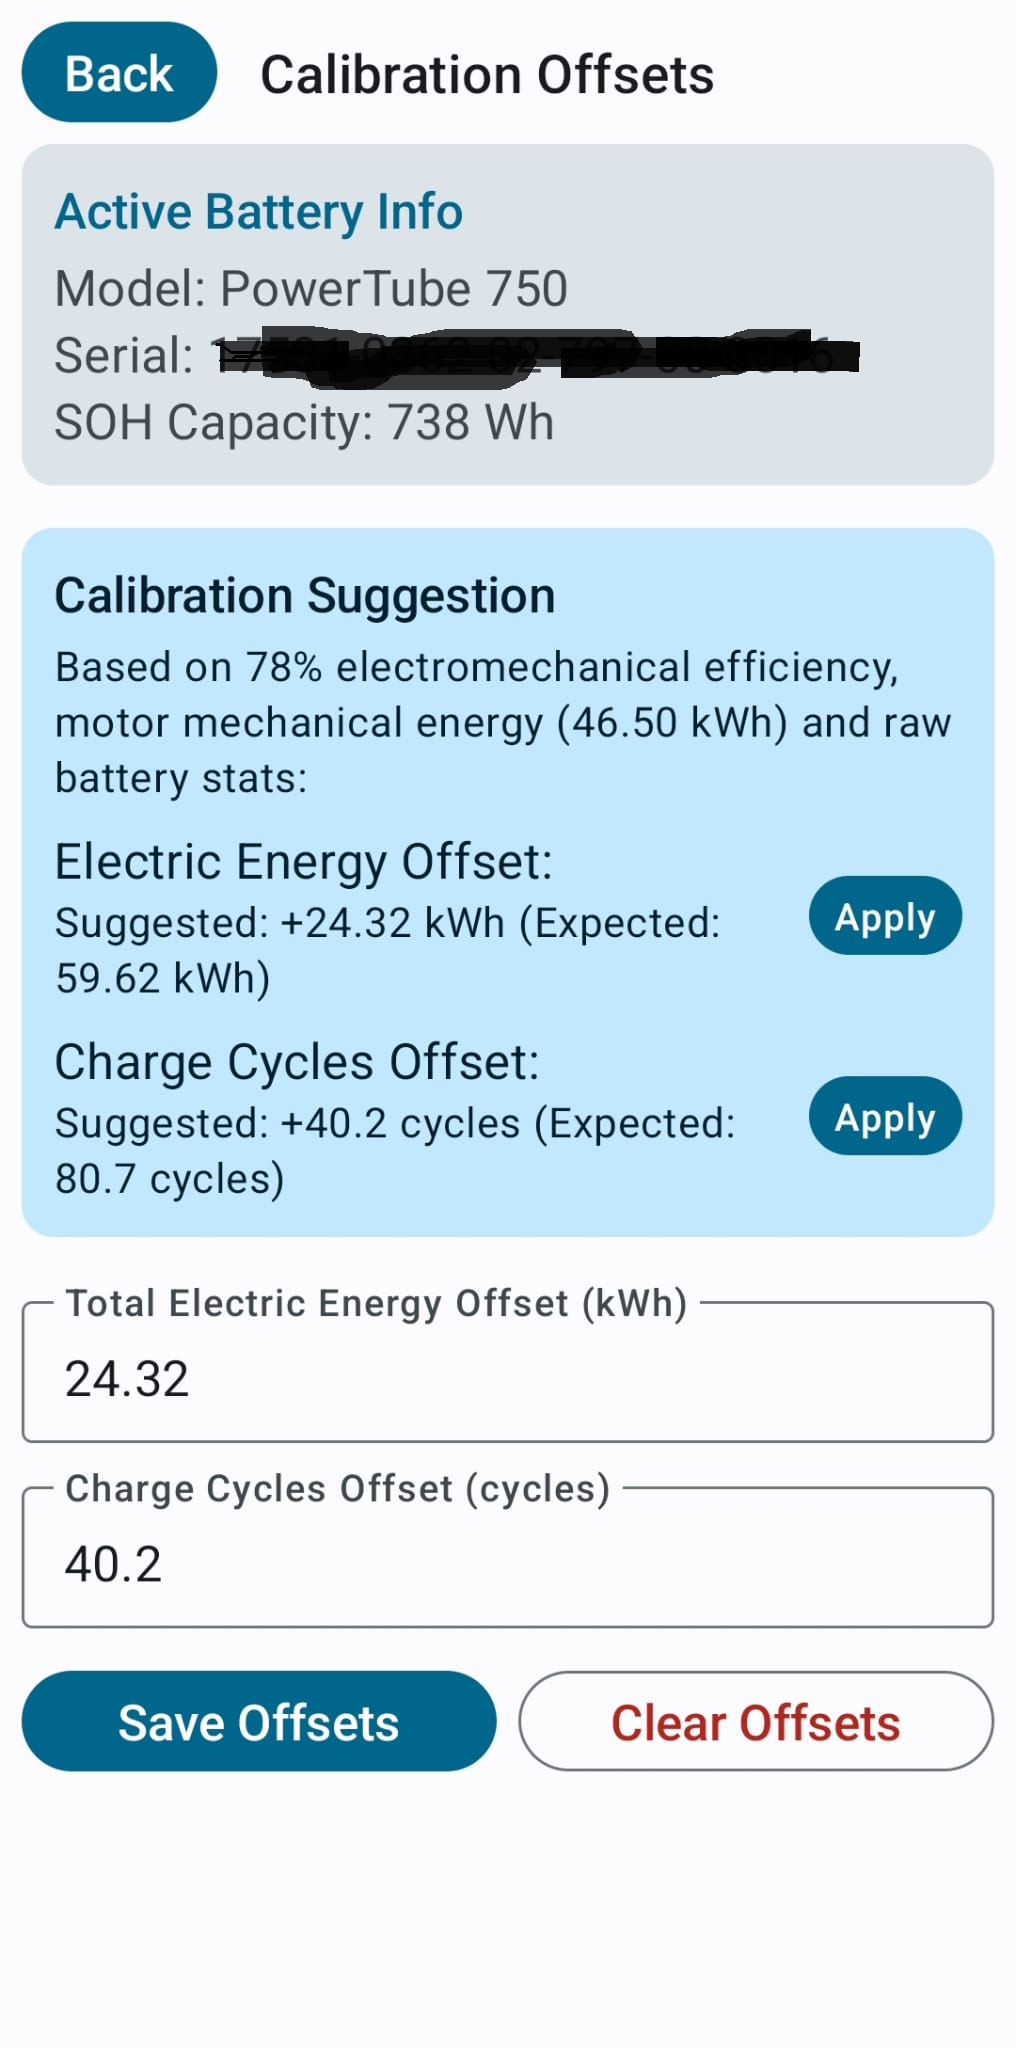
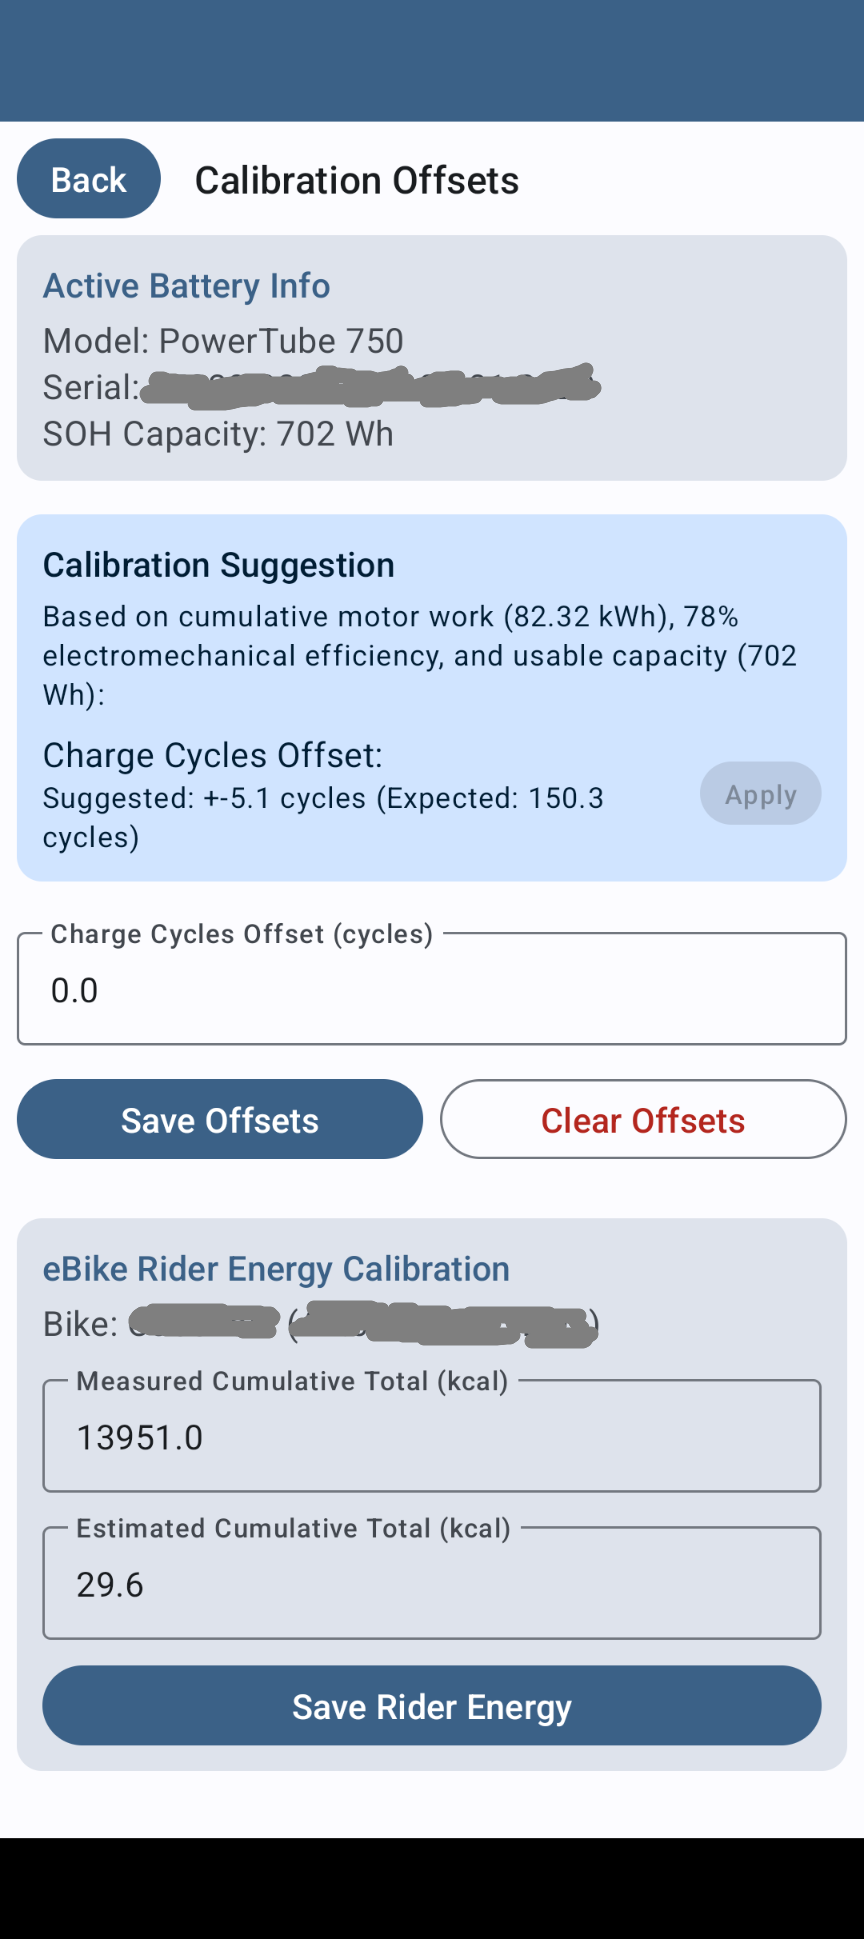
feat(battery): publish on-bike charge cycles (0x80B0) via MQTT and bump battery discovery version
- Add onBikeChargeCycles to BikeStatus and BatteryStateManager
- Implement freshness gating and battery-swap cache invalidation for 0x80B0
- Configure Home Assistant MQTT discovery for sensor.bosch_<model>_on_bike_charge_cycles
- Publish retained onbikechargecycles topic under powertube/<serial>/
- Bump CURRENT_BATTERY_DISCOVERY_VERSION to 6 to prompt re-registration in HA
- Display on-bike charge cycles in Dashboard debug sensors
- Update Calibration.png, README.md, BLE_TOPICS.md, MQTT_TOPICS.md, and unit tests

diff --git a/app/src/test/java/com/example/ebikemonitor/data/ble/BatterySwapTest.kt b/app/src/test/java/com/example/ebikemonitor/data/ble/BatterySwapTest.kt
@@ -25,19 +25,25 @@ class BatterySwapTest {
         // 1. Connect Battery A and receive serial + telemetry
         val (status1, _) = batteryStateManager.onBatterySerialDecoded("BAT_A", initialStatus, profiles)
         val status2 = batteryStateManager.onChargeCyclesReceived(155.0, status1, profiles)
+        val status3 = batteryStateManager.onOnBikeChargeCyclesReceived(120.0, status2)
 
-        assertEquals("BAT_A", status2.batterySerialNumber)
-        assertEquals(155.0, status2.chargeCycles ?: 0.0, 0.001)
+        assertEquals("BAT_A", status3.batterySerialNumber)
+        assertEquals(155.0, status3.chargeCycles ?: 0.0, 0.001)
+        assertEquals(120.0, status3.onBikeChargeCycles ?: 0.0, 0.001)
         assertTrue(batteryStateManager.hasReceivedRealChargeCycles)
+        assertTrue(batteryStateManager.hasReceivedRealOnBikeChargeCycles)
 
         // 2. Disconnect BLE
-        val disconnectedStatus = batteryStateManager.resetOnDisconnect(status2)
+        val disconnectedStatus = batteryStateManager.resetOnDisconnect(status3)
 
         // 3. Verify telemetry is cleared and flags are reset
         assertNull(disconnectedStatus.rawChargeCycles)
         assertNull(disconnectedStatus.chargeCycles)
+        assertNull(disconnectedStatus.onBikeChargeCycles)
         assertNull(batteryStateManager.rawChargeCycles)
+        assertNull(batteryStateManager.rawOnBikeChargeCycles)
         assertFalse(batteryStateManager.hasReceivedRealChargeCycles)
+        assertFalse(batteryStateManager.hasReceivedRealOnBikeChargeCycles)
     }
 
     @Test
@@ -50,26 +56,33 @@ class BatterySwapTest {
         // 1. Ride with Battery Grey
         val (s1, _) = batteryStateManager.onBatterySerialDecoded("BAT_GREY", initialStatus, profiles)
         val s2 = batteryStateManager.onChargeCyclesReceived(155.0, s1, profiles)
-        assertEquals(155.0, s2.chargeCycles ?: 0.0, 0.001)
+        val s3 = batteryStateManager.onOnBikeChargeCyclesReceived(120.0, s2)
+        assertEquals(155.0, s3.chargeCycles ?: 0.0, 0.001)
+        assertEquals(120.0, s3.onBikeChargeCycles ?: 0.0, 0.001)
 
         // 2. Bike powers off
-        val disconnectedStatus = batteryStateManager.resetOnDisconnect(s2)
+        val disconnectedStatus = batteryStateManager.resetOnDisconnect(s3)
 
         // 3. Swap in Battery Red (not in profiles list)
         val (sRedInit, serialChanged) = batteryStateManager.onBatterySerialDecoded("BAT_RED", disconnectedStatus, profiles)
         assertTrue(serialChanged)
         assertEquals("BAT_RED", sRedInit.batterySerialNumber)
 
-        // Critical: Before new BMS packets arrive, cycles must be null (no leakage of 155.0!)
+        // Critical: Before new BMS packets arrive, cycles must be null (no leakage of 155.0 or 120.0!)
         assertNull("Stale charge cycles leaked to new battery!", sRedInit.chargeCycles)
+        assertNull("Stale on-bike charge cycles leaked to new battery!", sRedInit.onBikeChargeCycles)
         assertFalse(batteryStateManager.hasReceivedRealChargeCycles)
+        assertFalse(batteryStateManager.hasReceivedRealOnBikeChargeCycles)
 
         // 4. Low-frequency BMS packets for Red finally arrive
         val sRedComplete = batteryStateManager.onChargeCyclesReceived(40.9, sRedInit, profiles)
+        val sRedOnBike = batteryStateManager.onOnBikeChargeCyclesReceived(30.5, sRedComplete)
 
         // Verify unregistered battery immediately adopts raw values with 0.0 offset (not ignored or frozen)
-        assertEquals(40.9, sRedComplete.chargeCycles ?: 0.0, 0.001)
+        assertEquals(40.9, sRedOnBike.chargeCycles ?: 0.0, 0.001)
+        assertEquals(30.5, sRedOnBike.onBikeChargeCycles ?: 0.0, 0.001)
         assertTrue(batteryStateManager.hasReceivedRealChargeCycles)
+        assertTrue(batteryStateManager.hasReceivedRealOnBikeChargeCycles)
     }
 
     @Test
@@ -112,14 +125,18 @@ class BatterySwapTest {
         // Battery 1 has active telemetry
         val (s1, _) = batteryStateManager.onBatterySerialDecoded("BAT_1", initialStatus, profiles)
         val s2 = batteryStateManager.onChargeCyclesReceived(20.0, s1, profiles)
-        assertEquals(20.0, s2.chargeCycles ?: 0.0, 0.001)
+        val s3 = batteryStateManager.onOnBikeChargeCyclesReceived(15.0, s2)
+        assertEquals(20.0, s3.chargeCycles ?: 0.0, 0.001)
+        assertEquals(15.0, s3.onBikeChargeCycles ?: 0.0, 0.001)
 
         // Serial unexpectedly changes mid-connection to BAT_2 without disconnect
-        val (sChanged, changed) = batteryStateManager.onBatterySerialDecoded("BAT_2", s2, profiles)
+        val (sChanged, changed) = batteryStateManager.onBatterySerialDecoded("BAT_2", s3, profiles)
         assertTrue(changed)
         assertEquals("BAT_2", sChanged.batterySerialNumber)
         assertNull(sChanged.chargeCycles)
+        assertNull(sChanged.onBikeChargeCycles)
         assertFalse(batteryStateManager.hasReceivedRealChargeCycles)
+        assertFalse(batteryStateManager.hasReceivedRealOnBikeChargeCycles)
     }
 }
 

diff --git a/app/src/main/java/com/example/ebikemonitor/data/ble/BatteryStateManager.kt b/app/src/main/java/com/example/ebikemonitor/data/ble/BatteryStateManager.kt
@@ -16,11 +16,18 @@ class BatteryStateManager {
     var hasReceivedRealChargeCycles: Boolean = false
         private set
 
+    var rawOnBikeChargeCycles: Double? = null
+        private set
+
+    var hasReceivedRealOnBikeChargeCycles: Boolean = false
+        private set
+
     /**
      * Resets transient BLE arrival flags on connection state change.
      */
     fun resetFlags() {
         hasReceivedRealChargeCycles = false
+        hasReceivedRealOnBikeChargeCycles = false
     }
 
     /**
@@ -29,10 +36,12 @@ class BatteryStateManager {
      */
     fun resetOnDisconnect(status: BikeStatus): BikeStatus {
         rawChargeCycles = null
+        rawOnBikeChargeCycles = null
         resetFlags()
         return status.copy(
             rawChargeCycles = null,
-            chargeCycles = null
+            chargeCycles = null,
+            onBikeChargeCycles = null
         )
     }
 
@@ -54,10 +63,12 @@ class BatteryStateManager {
         var status = currentStatus
         if (serialChanged) {
             rawChargeCycles = null
+            rawOnBikeChargeCycles = null
             resetFlags()
             status = status.copy(
                 rawChargeCycles = null,
-                chargeCycles = null
+                chargeCycles = null,
+                onBikeChargeCycles = null
             )
         }
 
@@ -80,6 +91,20 @@ class BatteryStateManager {
     }
 
     /**
+     * Handles incoming On-Bike Charge Cycles (BLE topic 0x80B0).
+     */
+    fun onOnBikeChargeCyclesReceived(
+        rawCycles: Double,
+        currentStatus: BikeStatus
+    ): BikeStatus {
+        rawOnBikeChargeCycles = rawCycles
+        hasReceivedRealOnBikeChargeCycles = true
+        return currentStatus.copy(
+            onBikeChargeCycles = rawCycles
+        )
+    }
+
+    /**
      * Applies configured offsets from the matching BatteryProfile to the raw BMS metrics.
      * If no profile is registered for the serial, defaults offsets to 0.0 so raw metrics
      * are immediately reflected in BikeStatus without locking or aborting.
@@ -96,7 +121,8 @@ class BatteryStateManager {
 
         return status.copy(
             rawChargeCycles = rawChargeCycles,
-            chargeCycles = computedCycles
+            chargeCycles = computedCycles,
+            onBikeChargeCycles = rawOnBikeChargeCycles
         )
     }
 }

diff --git a/app/src/main/java/com/example/ebikemonitor/data/ble/BleManager.kt b/app/src/main/java/com/example/ebikemonitor/data/ble/BleManager.kt
@@ -54,6 +54,9 @@ class BleManager(private val context: Context) {
     val hasReceivedRealChargeCycles: Boolean
         get() = batteryStateManager.hasReceivedRealChargeCycles
 
+    val hasReceivedRealOnBikeChargeCycles: Boolean
+        get() = batteryStateManager.hasReceivedRealOnBikeChargeCycles
+
     fun resetRealFlags() {
         hasReceivedRealOdo = false
         hasReceivedRealUsageRecords = false
@@ -295,7 +298,8 @@ class BleManager(private val context: Context) {
                 0x9819 -> currentStatus = currentStatus.copy(driveUnitHours = msg.value)
                 0x809C -> currentStatus = currentStatus.copy(totalBattery = msg.value / 1000.0)
                 0x80B0 -> {
-                    val onBikeCycles = msg.value * 0.1
+                    val onBikeCycles = msg.value / 10.0
+                    currentStatus = batteryStateManager.onOnBikeChargeCyclesReceived(onBikeCycles, currentStatus)
                     Log.d("BleManager", "On-Bike Charge Cycles (0x80B0) received: $onBikeCycles cycles")
                 }
                 0x206B -> {

diff --git a/app/src/main/java/com/example/ebikemonitor/data/mqtt/MqttManager.kt b/app/src/main/java/com/example/ebikemonitor/data/mqtt/MqttManager.kt
@@ -334,6 +334,7 @@ class MqttManager(private val context: Context) {
         publishConfig("sensor", "Nominal Design Capacity", "nominal_capacity", "nominal_capacity", "Wh", "energy", stateClass = null)
         publishConfig("sensor", "Actual Usable Capacity", "usable_capacity", "usable_capacity", "Wh", "energy", stateClass = null)
         publishConfig("sensor", "Charge Cycles", "charge_cycles", "chargecycles", "cycles", icon = "mdi:battery-sync", stateClass = "total_increasing")
+        publishConfig("sensor", "On-Bike Charge Cycles", "on_bike_charge_cycles", "onbikechargecycles", "cycles", icon = "mdi:battery-sync", stateClass = "total_increasing")
         publishConfig("sensor", "Battery Temperature", "temperature", "temperature", "°C", "temperature")
         publishConfig("binary_sensor", "Charging State", "charging", "charging", deviceClass = "battery_charging", stateClass = null)
         publishConfig("sensor", "Hardware Serial", "serial", "serial", icon = "mdi:barcode-scan", stateClass = null)

diff --git a/app/src/main/java/com/example/ebikemonitor/ui/DashboardScreen.kt b/app/src/main/java/com/example/ebikemonitor/ui/DashboardScreen.kt
@@ -169,6 +169,7 @@ fun AllSensorsDebugCard(
             sensors.add(stringResource(R.string.debug_sensor_human_calories) to (bikeStatus.tripPedalEnergy?.let { "$it kcal" } ?: "--"))
             sensors.add(stringResource(R.string.debug_sensor_cadence) to (bikeStatus.cadence?.toString() ?: "--") + " rpm")
             sensors.add(stringResource(R.string.debug_sensor_charge_cycles) to (bikeStatus.chargeCycles?.toString() ?: "--"))
+            sensors.add(stringResource(R.string.debug_sensor_on_bike_charge_cycles) to (bikeStatus.onBikeChargeCycles?.toString() ?: "--"))
             sensors.add(stringResource(R.string.debug_sensor_led_version) to (bikeStatus.ledRemoteSoftwareVersion ?: "--"))
             sensors.add(stringResource(R.string.debug_sensor_battery_sw_version) to (bikeStatus.batterySoftwareVersion ?: "--"))
             sensors.add(stringResource(R.string.debug_sensor_drive_unit_sw_version) to (bikeStatus.driveUnitSoftwareVersion ?: "--"))

diff --git a/app/src/main/java/com/example/ebikemonitor/EBikeBackgroundService.kt b/app/src/main/java/com/example/ebikemonitor/EBikeBackgroundService.kt
@@ -830,6 +830,9 @@ class EBikeBackgroundService : Service() {
             if (app.bleManager.hasReceivedRealChargeCycles && status.chargeCycles != null) {
                 pubIfDiff("$battTopic/chargecycles", status.chargeCycles, lastBattery?.chargeCycles, true)
             }
+            if (app.bleManager.hasReceivedRealOnBikeChargeCycles && status.onBikeChargeCycles != null) {
+                pubIfDiff("$battTopic/onbikechargecycles", status.onBikeChargeCycles, lastBattery?.onBikeChargeCycles, true)
+            }
             pubIfDiff("$battTopic/serial", batterySerial, lastBattery?.batterySerialNumber, true)
 
             // New battery sensors

diff --git a/app/src/test/java/com/example/ebikemonitor/data/parser/LogPlaybackTest.kt b/app/src/test/java/com/example/ebikemonitor/data/parser/LogPlaybackTest.kt
@@ -117,6 +117,7 @@ class LogPlaybackTest {
             0x9819 -> current.copy(driveUnitHours = msg.value)
             0x809C -> current.copy(totalBattery = msg.value / 1000.0)
             0x8096 -> current.copy(chargeCycles = msg.value / 10.0)
+            0x80B0 -> current.copy(onBikeChargeCycles = msg.value / 10.0)
             0x80BC -> current.copy(batteryLevel = msg.value)
             0x9809 -> current.copy(assistMode = msg.value)
             0x206B -> msg.decodeStringField()?.let { BoschParser.formatSoftwareVersion(it) }?.let { current.copy(ledRemoteSoftwareVersion = it) } ?: current

diff --git a/app/src/main/java/com/example/ebikemonitor/data/datasource/SettingsRepository.kt b/app/src/main/java/com/example/ebikemonitor/data/datasource/SettingsRepository.kt
@@ -21,7 +21,7 @@ import kotlinx.coroutines.sync.withLock
 val Context.dataStore: DataStore<Preferences> by preferencesDataStore(name = "settings")
 
 const val CURRENT_BIKE_DISCOVERY_VERSION = 6
-const val CURRENT_BATTERY_DISCOVERY_VERSION = 5
+const val CURRENT_BATTERY_DISCOVERY_VERSION = 6
 
 class SettingsRepository(private val context: Context) {
 

diff --git a/app/src/main/java/com/example/ebikemonitor/data/model/BikeStatus.kt b/app/src/main/java/com/example/ebikemonitor/data/model/BikeStatus.kt
@@ -37,6 +37,7 @@ data class BikeStatus(
     val batterySerialNumber: String? = null,
     val batteryModel: String? = null,
     val chargeCycles: Double? = null,
+    val onBikeChargeCycles: Double? = null,
     val driveUnitHours: Int? = null,
     val humanCalories: Double? = null,
     val tripSpeed: Double? = null,

diff --git a/MQTT_TOPICS.md b/MQTT_TOPICS.md
@@ -66,14 +66,15 @@ eBikeMonitor publishes data using the Home Assistant MQTT Discovery protocol. Th
 | `nominal_capacity` | Nominal Design Capacity | `sensor.bosch_<model>_nominal_design_capacity` | Wh | Nominal factory design capacity (`0x80B4`). (**Retained**) |
 | `usable_capacity` | Actual Usable Capacity | `sensor.bosch_<model>_actual_usable_capacity` | Wh | Actual maximum healthy usable capacity / SOH (`0x80D9`). (**Retained**) |
 | `chargecycles` | Charge Cycles | `sensor.bosch_<model>_charge_cycles` | cycles | Cumulative full charge cycles (`0x8096`). (**Retained**) |
+| `onbikechargecycles` | On-Bike Charge Cycles | `sensor.bosch_<model>_on_bike_charge_cycles` | cycles | Cumulative full charge cycles conducted strictly via the eBike frame charging socket (`0x80B0`). (**Retained**) |
 | `temperature` | Battery Temperature | `sensor.bosch_<model>_battery_temperature` | °C | Current battery cell temperature (`0x808B`). |
 | `charging` | Charging State | `binary_sensor.bosch_<model>_charging` | - | Charging active binary state (state is `12` or charging active flag is `1`). |
 | `serial` | Hardware Serial | `sensor.bosch_<model>_hardware_serial` | - | The unique hardware serial identifier (`0x0081`). (**Retained**) |
 | `softwareversion` | Software Version | `sensor.bosch_<model>_software_version` | - | Firmware version of the battery BMS. (**Retained**) |
 
 > [!NOTE]
-> **Discontinued Sensor (`totalelectricenergy`)**:
-> `totalelectricenergy` (`sensor.bosch_<model>_total_electric_energy`) has been discontinued. BLE topic `0x80B0` was previously misinterpreted as electrical energy in kWh, but empirical testing confirmed it is actually On-Bike Charge Cycles (missing all off-bike charging; see [#31](https://github.com/thtexpert/eBikeMonitor/issues/31)). The app automatically publishes an empty discovery payload (`""`) to clear and delete the stale entity from Home Assistant. Lifetime energy is accurately reported by **Total Mechanical Energy** (`0x809C`).
+> **Reclassified Sensor (`0x80B0` -> `onbikechargecycles`)**:
+> Legacy sensor `totalelectricenergy` (`sensor.bosch_<model>_total_electric_energy`) has been discontinued. BLE topic `0x80B0` was previously misinterpreted as electrical energy in kWh, but empirical testing confirmed it is actually On-Bike Charge Cycles (missing all off-bike charging; see [#31](https://github.com/thtexpert/eBikeMonitor/issues/31)). It is now published under `onbikechargecycles` (`sensor.bosch_<model>_on_bike_charge_cycles`). The app automatically publishes an empty discovery payload (`""`) for the legacy `total_electric_energy` unique ID to clear and delete any stale entity from Home Assistant. Lifetime mechanical energy is accurately reported by **Total Mechanical Energy** (`0x809C`).
 
 > [!NOTE]
 > `<model>` is the decoded battery model (e.g., `powertube_750`). Home Assistant uses the device name (e.g., `Bosch PowerTube 750`) to create these entity IDs.
@@ -110,7 +111,7 @@ To ensure data integrity and avoid corrupting graphs or alerts in Home Assistant
 * **Persistent (Retained)**: Messages are flagged with `retain=true`. The MQTT broker stores the last published value permanently. When Home Assistant restarts or a new dashboard is loaded, it immediately retrieves these values without waiting for the eBike to wake up and transmit.
   * *Odometer & Lifetime Totals*: `totaldistance`, `totalhours`, `totalenergy`, `totalbattery`, `pedal_energy_measured`, `pedal_energy_estimated`, `pedal_energy_total`.
   * *Configuration & Metadata*: `serial`, `batteryserialnumber`, `ebikeledsoftwareversion`.
-  * *Degradation & Health Capacity*: `nominal_capacity`, `usable_capacity`, `chargecycles`, `usable_energy_remaining`.
+  * *Degradation & Health Capacity*: `nominal_capacity`, `usable_capacity`, `chargecycles`, `onbikechargecycles`, `usable_energy_remaining`.
   * *Per-Mode History*: `<mode>_distance`, `<mode>_energy`.
 * **Transient (Non-Retained)**: Messages are flagged with `retain=false` (default). Values are dynamic and real-time. When the bike turns off, stale values are not held on the broker.
   * *Live Riding Dynamics*: `speed`, `cadence`, `power`, `motorpower`, `assistmode`.

diff --git a/BLE_TOPICS.md b/BLE_TOPICS.md
@@ -53,7 +53,7 @@ The following tables group the BLE topics (Message IDs) by hardware unit and fun
 | `0x8096` | Charge Cycles | `Int` / 10.0 | Cumulative number of full charge cycles (increments only during charging). Broadcast periodically / low frequency; gated in app to prevent cross-battery stale leakage on battery swap. (from BMS) |
 | `0x8097` | BMS Chip Serial | Protobuf submessage | Diagnostic battery serial / hardware ID (nested structure `1a0a08...`). |
 | `0x809C` | Lifetime Total Mechanical Energy | `Int` (Wh) | Cumulative mechanical energy delivered by the motor over its lifetime. Matches the sum of all assist mode mechanical energies reported in `0x108C` Usage Records. |
-| `0x80B0` | On-Bike Charge Cycles | `Int` / 10.0 (cycles) | Cumulative full charge cycles conducted strictly via the eBike frame charging socket (1 raw unit = 0.1 cycles). Does **not** increment during external off-bike desktop charging. The difference (`0x8096 - 0x80B0`) represents off-bike charge cycles. *(Discontinued in app / Not published to MQTT; tracked in [#31](https://github.com/thtexpert/eBikeMonitor/issues/31))*. |
+| `0x80B0` | On-Bike Charge Cycles | `Int` / 10.0 (cycles) | Cumulative full charge cycles conducted strictly via the eBike frame charging socket (1 raw unit = 0.1 cycles). Does **not** increment during external off-bike desktop charging. The difference (`0x8096 - 0x80B0`) represents off-bike charge cycles. Published to MQTT under `powertube/<serial>/onbikechargecycles` (tracked in [#31](https://github.com/thtexpert/eBikeMonitor/issues/31)). |
 | `0x80B1` | SOH Parameter | Semi-static | BMS capacity calibration index (updates step-wise as SOH degrades). |
 | `0x80B4` | Actual Capacity (Wh) | `Int` / 10.0 (Wh) | Actual maximum healthy usable capacity of the battery cell pack in Wh (e.g. 743.0 Wh). Calculated internally by the BMS as Ah (0x80E2) * 36.0V nominal. |
 | `0x80C5` | Usable Motor Energy (BMS)| `Int` / 10.0 (Wh) | Alternate/redundant usable motor energy. (from BMS) |

diff --git a/README.md b/README.md
@@ -159,7 +159,7 @@ You can start your ride even if you are away from home. Once your eBike turns of
   2. Scroll down to the **Bluetooth** section.
   3. Tap the red **"Reset Profiles"** button. This will clear the scrambled mode-specific data and baselines in the database, but **keep your MQTT credentials, selected BLE MAC address, and learned battery capacity/user effort calibration intact**.
   4. On the next connection, the app will automatically perform a fresh startup decoding and re-learn the correct mode mapping. **Note**: Re-learning requires you to ride in each assist mode for at least a few hundred meters so that the discovery algorithm can gather enough distance delta to distinguish them.
-- **Battery Calibration**: If your battery's charge cycle and electrical energy counters have fallen out of sync with the motor's mechanical odometer work (only needed if the battery was run on very old BMS firmware for a long period of time), you can apply offsets to calibrate them. See [CALIBRATION](CALIBRATION.md) for full instructions.
+- **Battery Calibration**: If your battery's charge cycle counters have fallen out of sync with the motor's mechanical odometer work (only needed if the battery was run on very old BMS firmware for a long period of time), you can apply offsets to calibrate them. See [CALIBRATION](CALIBRATION.md) for full instructions.
 
 ### 6. Synchronization Alerts & Error Notifications
 To ensure you are immediately informed of any synchronization issues when coming home, the app creates a dedicated Android notification channel named **eBike Sync Errors**.
